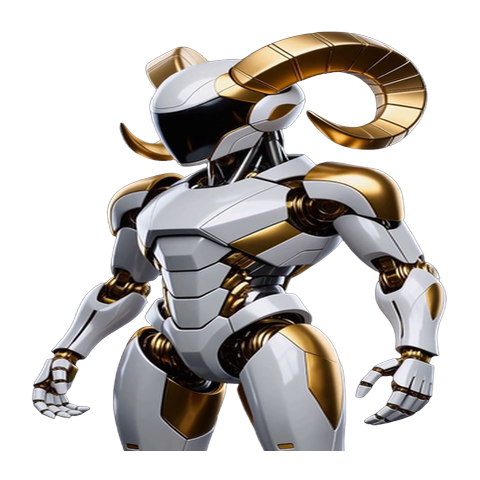
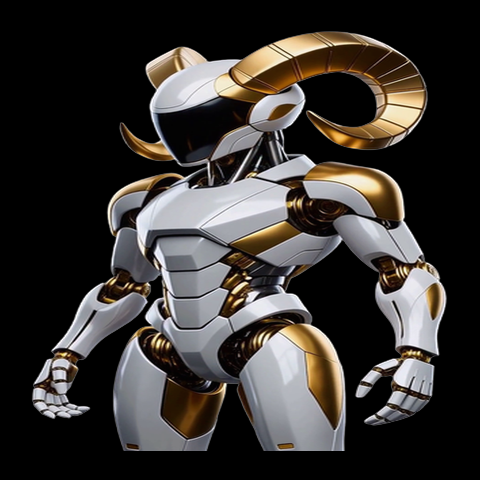
로봇 양 퍼즐 이미지 배경을 검정으로 채움
sheep-final.png가 투명 배경이라, 캐릭터가 안 채운 칸(어깨 사이, 다리 사이 등)은
정답 박스의 연보라 배경이 그대로 비쳐서 조각이 이상하게 잘린 것처럼 보였음
(클리핑 버그가 아니었음 — 로컬에서 16조각 전부 직접 배치해 확인). 배경을
검정(변신 무대와 동일 색)으로 채워서 모든 조각이 빈틈없이 보이게 함.

sw.js 캐시 버전 v240

Claude-Session: https://claude.ai/code/session_01NsU4JzqSpHxBentSWbq8QE

diff --git a/sw.js b/sw.js
@@ -1,4 +1,4 @@
-const CACHE_NAME = 'coloring-app-v239';
+const CACHE_NAME = 'coloring-app-v240';
 // 2026-08-11: cache.addAll()은 원자적이라 목록 중 하나라도 못 받아오면 설치 전체가 실패한다.
 // boss-battle 배경음악(6.8MB, 다른 음악의 10배 이상 큼)이 이 목록에 있으면 네트워크가 조금만
 // 불안정해도 그 파일 하나 때문에 서비스워커 설치 자체가 실패해서 앱 전체가 계속 낡은 캐시에
